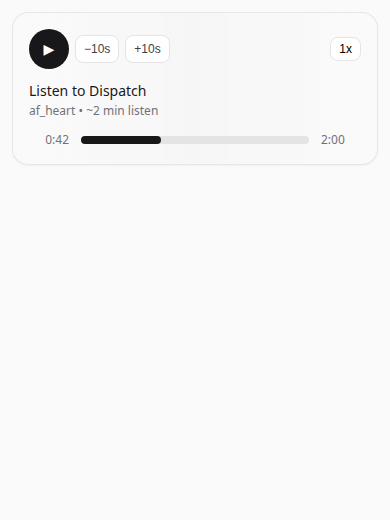
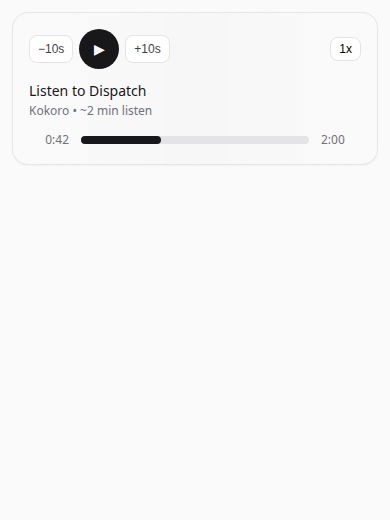
fix(listen): order transport as −10s, play, +10s
Centralize skip aria-label constants and test transport order. Refresh
390px fixture screenshot.

Changed region(s): [[0.0615, 0.0308, 0.3077, 0.1538], [0.0615, 0.1846, 0.4, 0.2462]]

diff --git a/src/components/audio/dispatch-audio-player.tsx b/src/components/audio/dispatch-audio-player.tsx
@@ -2,6 +2,10 @@
 
 import { useCallback, useLayoutEffect, useRef, useState } from "react";
 import { stripHtmlTags } from "@/lib/posts/reading-time";
+import {
+  LISTEN_SKIP_BACK_ARIA,
+  LISTEN_SKIP_FORWARD_ARIA,
+} from "./dispatch-audio-player-controls";
 import { handleDispatchAudioDocumentClick } from "./dispatch-audio-player-navigation";
 import { readerStoredNarrationLabel } from "./dispatch-audio-reader-label";
 import {
@@ -456,6 +460,16 @@ export function DispatchAudioPlayer({
       <div className="flex flex-wrap items-center justify-between gap-3">
         <div className="flex items-center gap-3">
           <div className="flex items-center gap-1.5">
+            {showSeekControls ? (
+              <button
+                type="button"
+                onClick={handleSkipBackward}
+                className="rounded-lg border border-zinc-200 bg-white px-2 py-1.5 text-xs font-medium text-zinc-700 shadow-xs hover:bg-zinc-50 dark:border-zinc-700 dark:bg-zinc-900 dark:text-zinc-200 dark:hover:bg-zinc-800"
+                aria-label={LISTEN_SKIP_BACK_ARIA}
+              >
+                −10s
+              </button>
+            ) : null}
             <button
               type="button"
               onClick={() => void handleTogglePlay()}
@@ -480,24 +494,14 @@ export function DispatchAudioPlayer({
               )}
             </button>
             {showSeekControls ? (
-              <>
-                <button
-                  type="button"
-                  onClick={handleSkipBackward}
-                  className="rounded-lg border border-zinc-200 bg-white px-2 py-1.5 text-xs font-medium text-zinc-700 shadow-xs hover:bg-zinc-50 dark:border-zinc-700 dark:bg-zinc-900 dark:text-zinc-200 dark:hover:bg-zinc-800"
-                  aria-label="Seek back 10 seconds"
-                >
-                  −10s
-                </button>
-                <button
-                  type="button"
-                  onClick={handleSkipForward}
-                  className="rounded-lg border border-zinc-200 bg-white px-2 py-1.5 text-xs font-medium text-zinc-700 shadow-xs hover:bg-zinc-50 dark:border-zinc-700 dark:bg-zinc-900 dark:text-zinc-200 dark:hover:bg-zinc-800"
-                  aria-label="Seek forward 10 seconds"
-                >
-                  +10s
-                </button>
-              </>
+              <button
+                type="button"
+                onClick={handleSkipForward}
+                className="rounded-lg border border-zinc-200 bg-white px-2 py-1.5 text-xs font-medium text-zinc-700 shadow-xs hover:bg-zinc-50 dark:border-zinc-700 dark:bg-zinc-900 dark:text-zinc-200 dark:hover:bg-zinc-800"
+                aria-label={LISTEN_SKIP_FORWARD_ARIA}
+              >
+                +10s
+              </button>
             ) : null}
           </div>
           <div>

diff --git a/tests/fixtures/listen-player-mobile.html b/tests/fixtures/listen-player-mobile.html
@@ -114,11 +114,11 @@
     <div class="card" data-testid="listen-player-mobile">
       <div class="row">
         <div class="controls">
-          <button type="button" class="play" aria-label="Play audio narration">
-            ▶
-          </button>
           <button type="button" class="skip" aria-label="Seek back 10 seconds">
             −10s
+          </button>
+          <button type="button" class="play" aria-label="Play audio narration">
+            ▶
           </button>
           <button type="button" class="skip" aria-label="Seek forward 10 seconds">
             +10s
@@ -128,7 +128,7 @@
       </div>
       <div style="margin-top: 0.75rem">
         <p class="title">Listen to Dispatch</p>
-        <p class="sub">af_heart • ~2 min listen</p>
+        <p class="sub">Kokoro • ~2 min listen</p>
       </div>
       <div class="scrub">
         <span class="time left">0:42</span>

diff --git a/src/components/audio/dispatch-audio-player-controls.test.ts b/src/components/audio/dispatch-audio-player-controls.test.ts
@@ -1,0 +1,18 @@
+import { describe, expect, it } from "vitest";
+import {
+  LISTEN_SKIP_BACK_ARIA,
+  LISTEN_SKIP_FORWARD_ARIA,
+  listenSeekTransportAriaOrder,
+} from "./dispatch-audio-player-controls";
+
+describe("listenSeekTransportAriaOrder", () => {
+  it("orders controls as −10s, play/pause, +10s", () => {
+    expect(listenSeekTransportAriaOrder()).toEqual([
+      LISTEN_SKIP_BACK_ARIA,
+      "play/pause",
+      LISTEN_SKIP_FORWARD_ARIA,
+    ]);
+    expect(LISTEN_SKIP_BACK_ARIA).toBe("Seek back 10 seconds");
+    expect(LISTEN_SKIP_FORWARD_ARIA).toBe("Seek forward 10 seconds");
+  });
+});

diff --git a/src/components/audio/dispatch-audio-player-controls.ts b/src/components/audio/dispatch-audio-player-controls.ts
@@ -1,0 +1,15 @@
+/** Aria-labels for ±10s skip buttons (stored MP3 transport). */
+export const LISTEN_SKIP_BACK_ARIA = "Seek back 10 seconds";
+export const LISTEN_SKIP_FORWARD_ARIA = "Seek forward 10 seconds";
+
+/**
+ * Stored-audio transport order: −10s, play/pause (middle), +10s.
+ * Middle slot uses play/pause/loading labels from the component.
+ */
+export function listenSeekTransportAriaOrder(): readonly [
+  typeof LISTEN_SKIP_BACK_ARIA,
+  "play/pause",
+  typeof LISTEN_SKIP_FORWARD_ARIA,
+] {
+  return [LISTEN_SKIP_BACK_ARIA, "play/pause", LISTEN_SKIP_FORWARD_ARIA];
+}
